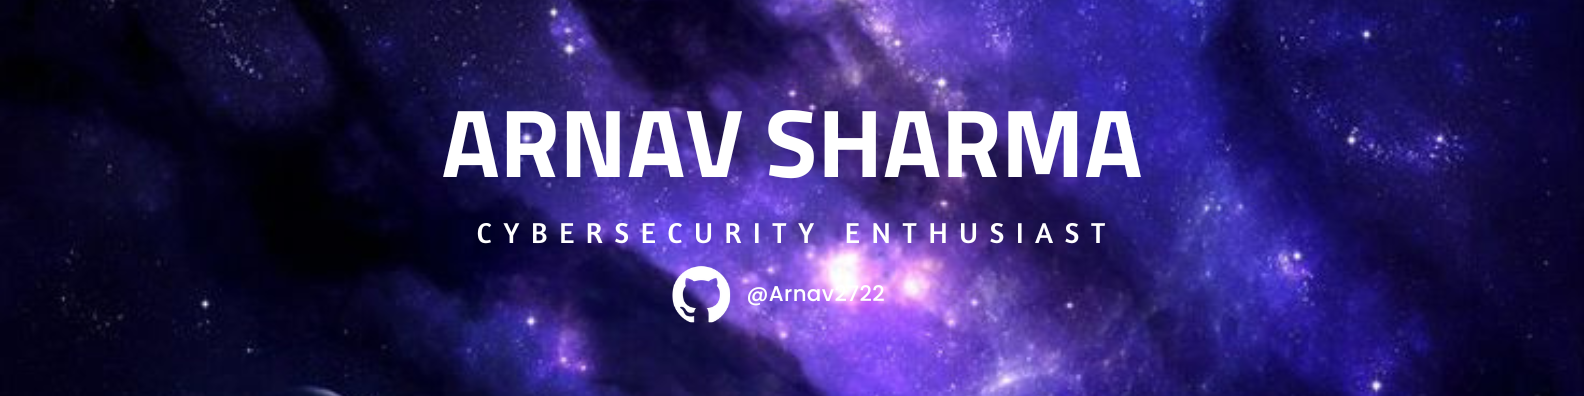
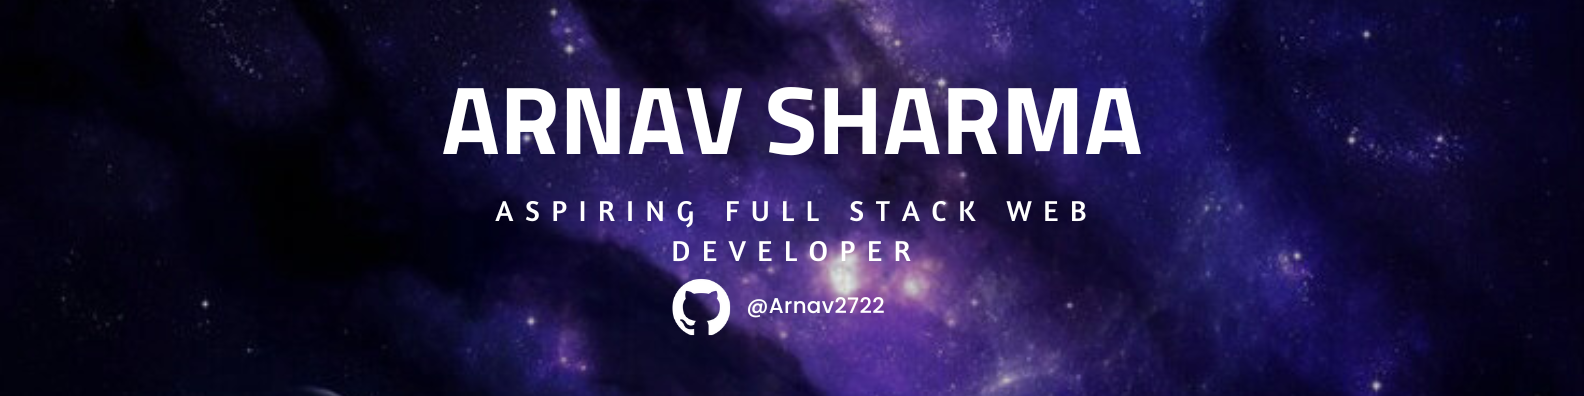
minor changes

diff --git a/Readme.md b/Readme.md
@@ -1,6 +1,6 @@
 <p align="center">
 	<img src="/assets/Arnav Sharma.png" alt="Banner">
-	<img src="/assets/animation.gif" alt="Banner">
+	<!-- <img src="/assets/animation.gif" alt="Banner"> -->
 
 <a href="https://holopin.io/@arnav2722">
     <img src="https://holopin.io/api/user/board?user=arnav2722" />
@@ -30,8 +30,8 @@
 
 <h3><b><samp>Experiences:</samp></b></h3>
 - 🕵🏻 <b>Web Development Intern at Zion Computers Pvt. Ltd. (May 2023 - July 2024)</b><br>
-- 💬 <b>Machine Learning Intern at DBlockchainers Pvt. Ltd. (January 2025 - Present)</b><br>
-- 🤔 <b>I’m looking for help with how to excel in Cyber-Security</b><br>
+- 💬 <b>Machine Learning Intern at DBlockchainers Pvt. Ltd. (January 2025 - July 2025)</b><br>
+<!-- - 🤔 <b>I’m looking for help with how to excel in Cyber-Security</b><br> -->
 </div>
 
 <p align="center">
@@ -50,7 +50,7 @@
 <!-- ![C](https://img.shields.io/badge/-C-05122A?style=flat&logo=C&logoColor=00599C)&nbsp;
 ![C++](https://img.shields.io/badge/-C++-05122A?style=flat&logo=C%2B%2B&logoColor=00599C)&nbsp; -->
 
-![Python](https://img.shields.io/badge/-Python-05122A?style=flat&logo=python)&nbsp;
+![React.js](https://img.shields.io/badge/-react-black-05122A?style=flat&logo=react)&nbsp;
 
 <!-- ![Java](https://img.shields.io/badge/-Java-05122A?style=flat&logo=java&logoColor=00599C)&nbsp; -->
 
